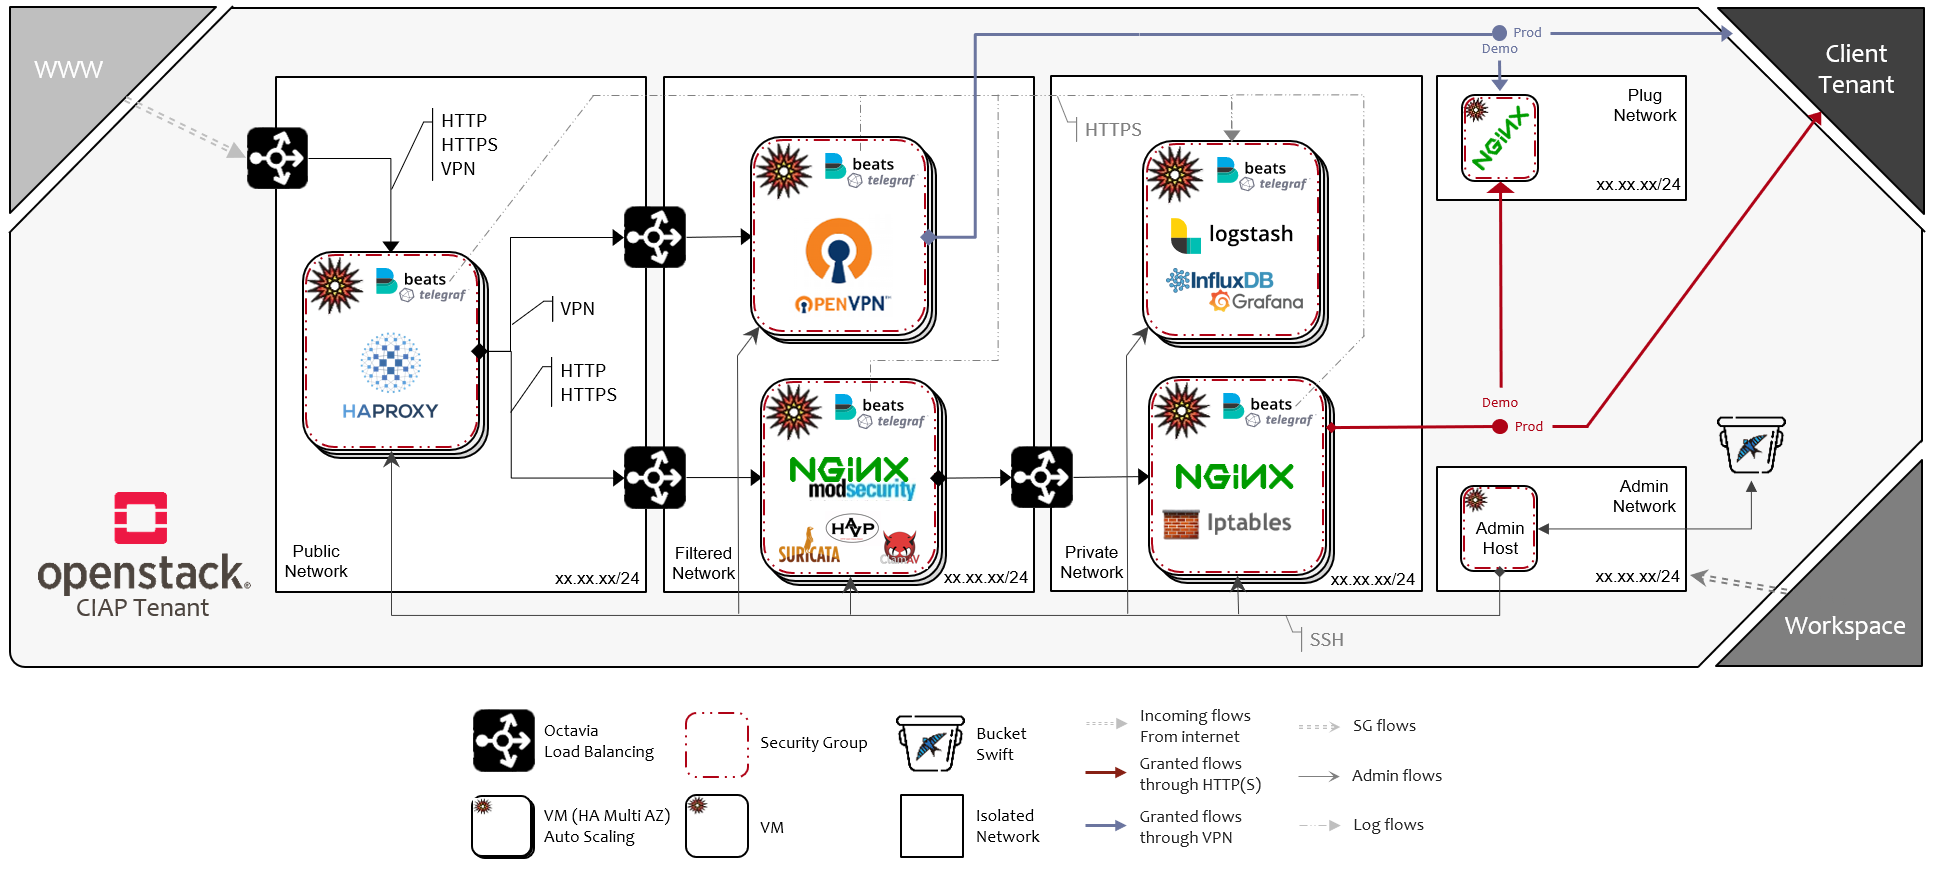
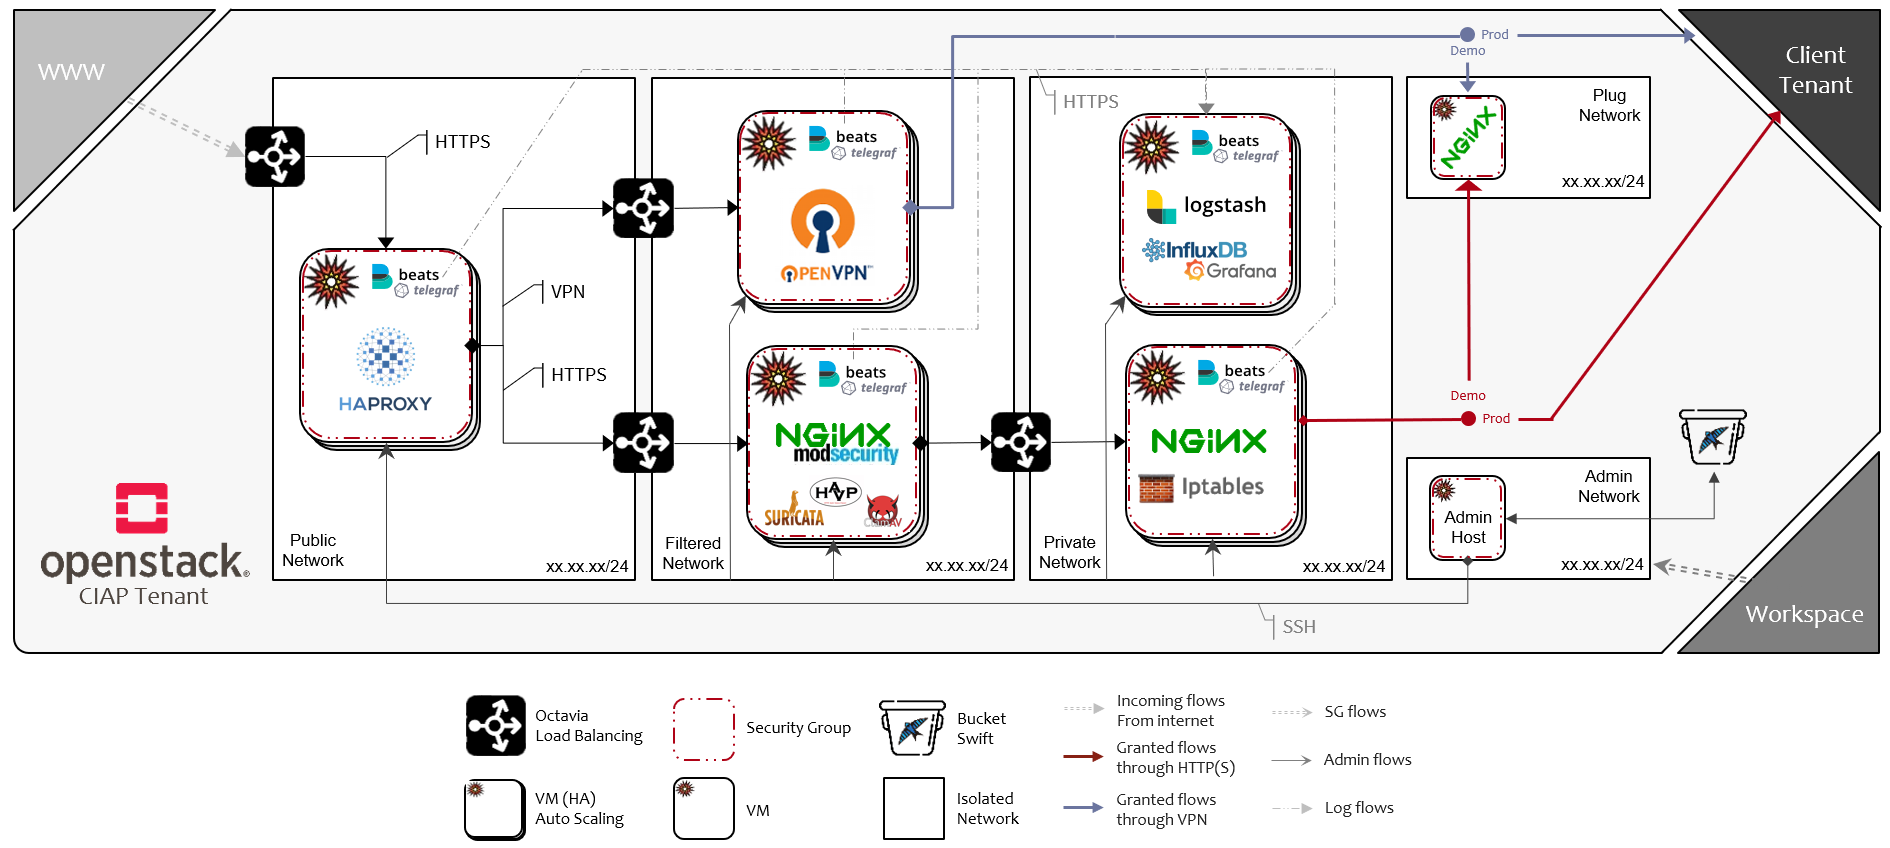
Update doc

diff --git a/openstack/README.md b/openstack/README.md
@@ -1,6 +1,6 @@
 # Bring up a complete OpenStack environment
 
-> Return to [Home page](../README.md "Home page")
+> Return to [Homepage](../README.md "Homepage")
 
 The purpose of this page is to provide a guide for installing an OpenStack Stein version with all the modules necessary for the deployment of a CIAP.
 
@@ -9,7 +9,7 @@ The purpose of this page is to provide a guide for installing an OpenStack Stein
 #### Summary
 
 * [Requirements](#requirements)
-* [Optional: Set up an Hypervisor (VMware ESXi)](#optional:-set-up-an-hypervisor-(vmware-esxi))
+* [Optional Set up a VMware ESXi Hypervisor](optional-set-up-a-vmware-esxi-hypervisor)
 * [Set up a fully working environment](#set-up-a-fully-working-environment)
     * [Install Linux (Ubuntu 18.04 LTS)](#install-linux-(ubuntu-18.04-lts))
     * [Add Stack User](#add-stack-user)
@@ -19,7 +19,7 @@ The purpose of this page is to provide a guide for installing an OpenStack Stein
 * [Post installation](#post-installation)
     * [Download and install images](#download-and-install-images)
     * [Reach openstack instances outside host machine](#reach-openstack-instances-outside-host-machine)
-* [Profit !](#profit-!)
+* [Profit!](#profit!)
 
 
 ## Requirements
@@ -31,7 +31,7 @@ The following minimum requirements should support a proof-of-concept environment
 * 200 GB storage
 
 
-## Optional: Set up an Hypervisor (VMware ESXi)
+## Optional Set up a VMware ESXi Hypervisor
 
 For testing the cIAP, it’s strongly recommended to use a clean virtual machine. Using Public Cloud (AWS, Azure, GCP and so on) is not recommended since configuring the network will be difficult. Another way is to use a host on VMware ESXi. If this solution is chosen, do not forget to change the NIC teaming, however, Openstack instances will not be able to reach internet.
 
@@ -135,7 +135,7 @@ iptables -t nat -A POSTROUTING -m iprange --src-range <FLOATING_RANGE MIN>-<FLOA
 ```
 
 
-## Profit !
+## Profit!
 
 You now have a working DevStack! Congrats!
 

diff --git a/README.md b/README.md
@@ -1,13 +1,13 @@
 # Openstack cIAP OCTANE
 
-## What's OCTANE ?
+## What's OCTANE ??
 
 **OCTANE** is:
 
 * A cIAP (**C**loud **I**nternet **A**ccess **P**oint). Mainly, it is a **security product** between Internet and your public application hosted in your private zone
 * The acronym (with imagination and goodwill) of **Opensource cIAP Nextgen**
-* A [Societe Generale](https://www.societegenerale.com) Open Source project developped within **Public Cloud 
-* Feature Team (Cloud Center Of Excellence)** by:
+* A [Societe Generale](https://www.societegenerale.com) Open Source project developped within **Public Cloud**
+* Feature Team (Cloud Center Of Excellence) by:
     * [Aubin LAGORCE](https://github.com/AubSs) for Openstack
     * [Eric BOUTEVILLE](https://github.com/qrn77) for [AWS](https://github.com/societe-generale/OCTANE)
 * Is currently available for [AWS](https://github.com/societe-generale/OCTANE) & Openstack
@@ -25,7 +25,7 @@
 
 ## How OCTANE is designed ?
 
-[![ARCHITECTURE](docs/archi.png)]()
+[![ARCHITECTURE](docs/architecture.png)]()
 
 There are several layers (from the most exposed -Internet- to the less exposed -Internal-) :
 

diff --git a/docs/architecture.md b/docs/architecture.md
@@ -1,29 +1,47 @@
-# Openstack CIAP OCTANE
+# Architecture
+
+> Return to [Homepage](../README.md "Homepage")
 
 ## Presentation
 
-This section is the detailled architecture
+This section presents the detailed architecture.
 
 ### Architecture
 
-[![HLD](archi.png)]()
+[![Architecture](architecture.png)]()
 
-### Low level design
+---
+
+### High-level design
 
 [![HLD](hld.png)]()
 
+---
+
 ### Low level design: Public zone
 
-...
+[![Public Zone](public.png)]()
 
-### Low level design: Filtered zone
+---
 
-...
+### Low level design: Filtered zone | HTTPS
 
-### Low level design: Filtered VPN zone
+[![Filtered zone | HTTPS](filtered-https.png)]()
 
-...
+---
 
-### Low level design: Private zone
+### Low level design: Filtered zone | VPN
 
-...
+[![Filtered zone | VPN](filtered-vpn.png)]()
+
+---
+
+### Low level design: Private zone | Filtering
+
+[![Private zone | Filtering](private-filtering.png)]()
+
+---
+
+### Low level design: Private zone | Metrology
+
+[![Private zone | Metrology](private-metrology.png)]()

diff --git a/heat/README.md b/heat/README.md
@@ -1,6 +1,6 @@
 # Orchestration Heat
 
-> Return to [Home page](../README.md "Home page")
+> Return to [Homepage](../README.md "Homepage")
 
 ## What is Heat ?
 Heat is the main project in the OpenStack Orchestration program. It implements an orchestration engine to launch multiple composite cloud applications based on templates in the form of text files that can be treated like code. A native Heat template format is evolving, but Heat also endeavours to provide compatibility with the AWS CloudFormation template format, so that many existing CloudFormation templates can be launched on OpenStack. Heat provides both an OpenStack-native REST API and a CloudFormation-compatible Query API.

diff --git a/ansible/roles/README.md b/ansible/roles/README.md
@@ -1,4 +1,7 @@
-# Ansible roles
+# Ansible Roles
+
+> Return to [Homepage](../../README.md "Homepage") <br>
+  Return to [Ansible Playbook](../README.md "Ansible Playbook")
 
 #### Summary
 
@@ -16,7 +19,7 @@
 * Elastic Load Balancers
   * add or remove ports for each configured domain
   * grant or revoke ports for VPN streams
-* Security Groups: 
+* Security Groups:
   * grant or revoke ports for each configured domain
   * configure metering ports
   * configure VPN ports

diff --git a/ansible/README.md b/ansible/README.md
@@ -1,6 +1,14 @@
 # Ansible Playbook
 
-> Return to [Home page](../README.md "Home page")
+> Return to [Homepage](../README.md "Homepage")
+
+#### Summary
+
+* [Presentation](#presentation)
+* [Roles](#roles)
+* [Usage](#usage)
+* [Ansible Dynamic Inventory](#ansible-dynamic-inventory)
+* [Ansible configuration](#ansible-configuration)
 
 ## Presentation
 

diff --git a/ansible/group_vars/README.md b/ansible/group_vars/README.md
@@ -1,4 +1,7 @@
-# Ansible Global variables
+# Ansible Global Variables
+
+> Return to [Homepage](../../README.md "Homepage") <br>
+  Return to [Ansible Playbook](../README.md "Ansible Playbook")
 
 This file contains global variables you may (or not) configure.
 

diff --git a/ansible/vars/README.md b/ansible/vars/README.md
@@ -1,4 +1,7 @@
-# Ansible variables
+# Ansible Variables
+
+> Return to [Homepage](../../README.md "Homepage") <br>
+  Return to [Ansible Playbook](../README.md "Ansible Playbook")
 
 #### Summary
 

diff --git a/docs/README.md b/docs/README.md
@@ -1,6 +1,6 @@
 # Documentation
 
-> [Homepage](../README.md "Homepage")
+> Return to [Homepage](../README.md "Homepage")
 
 #### Summary
 
